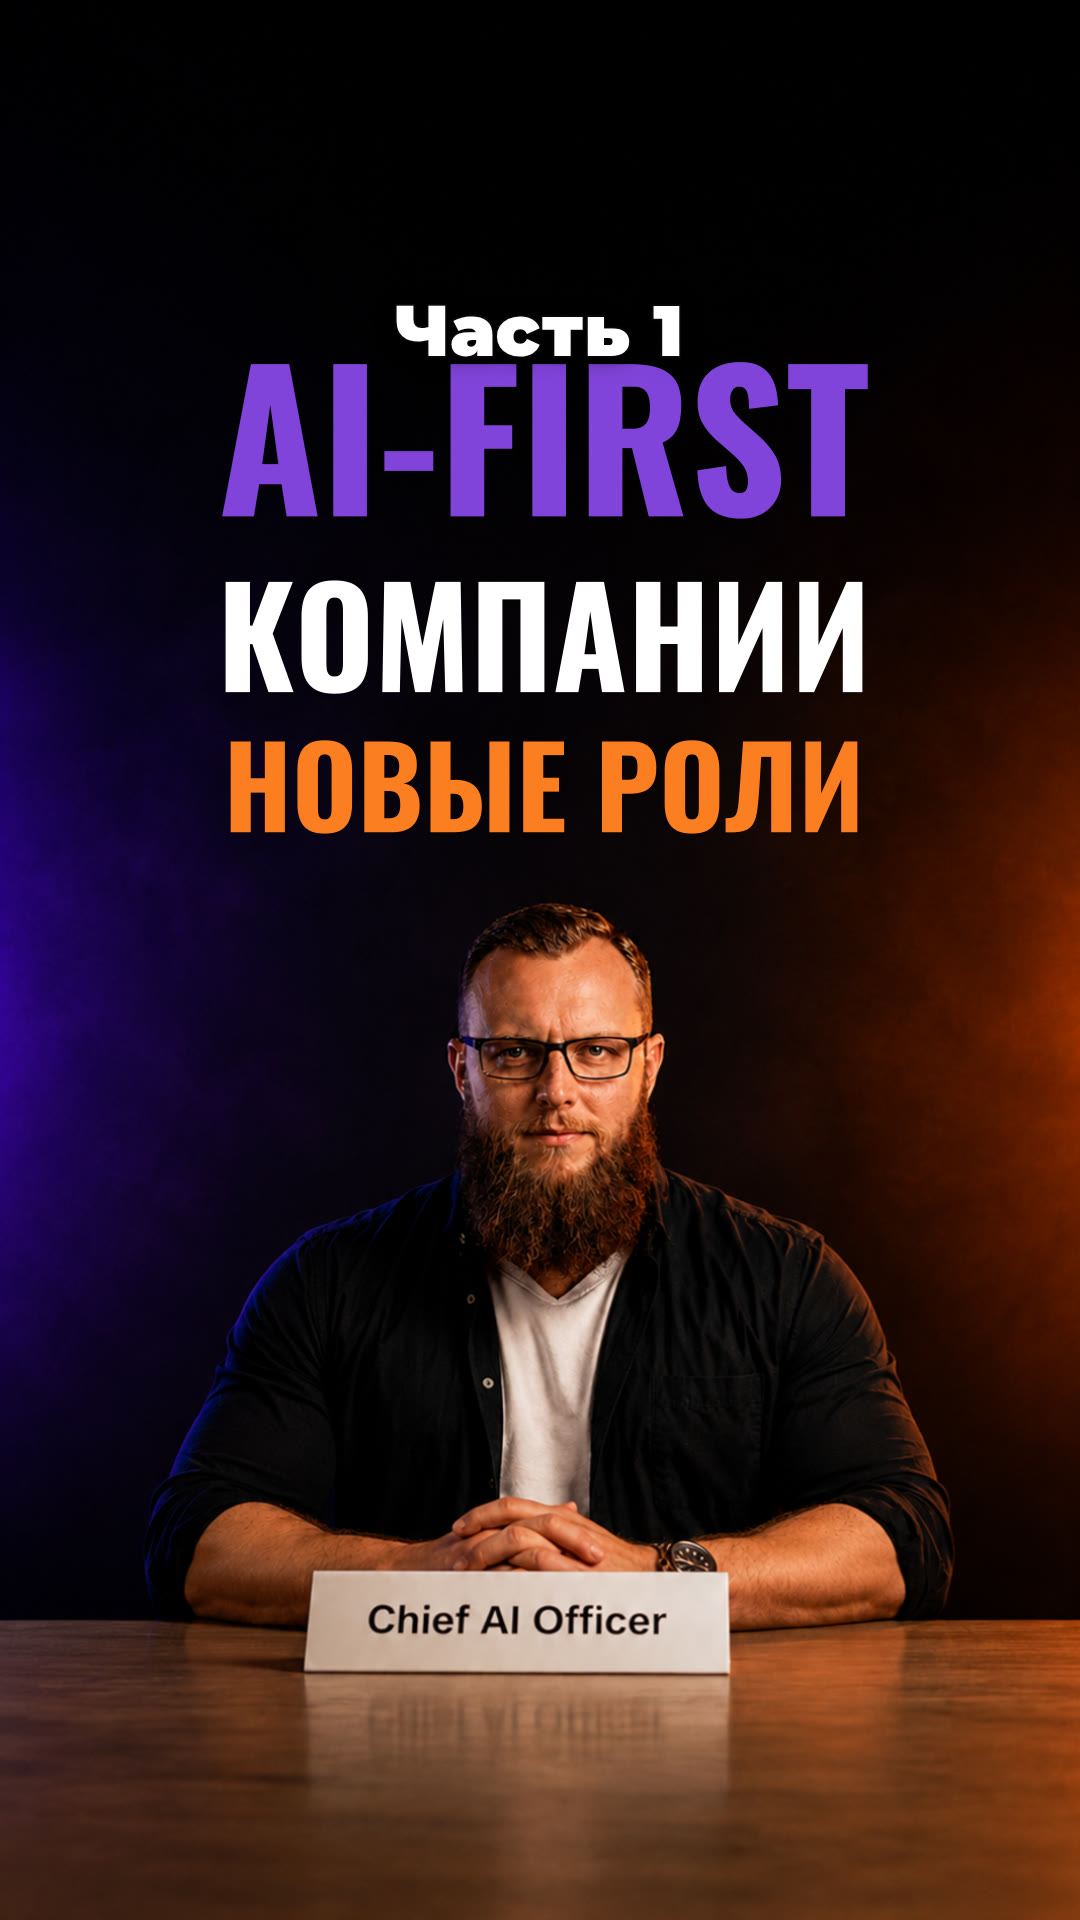
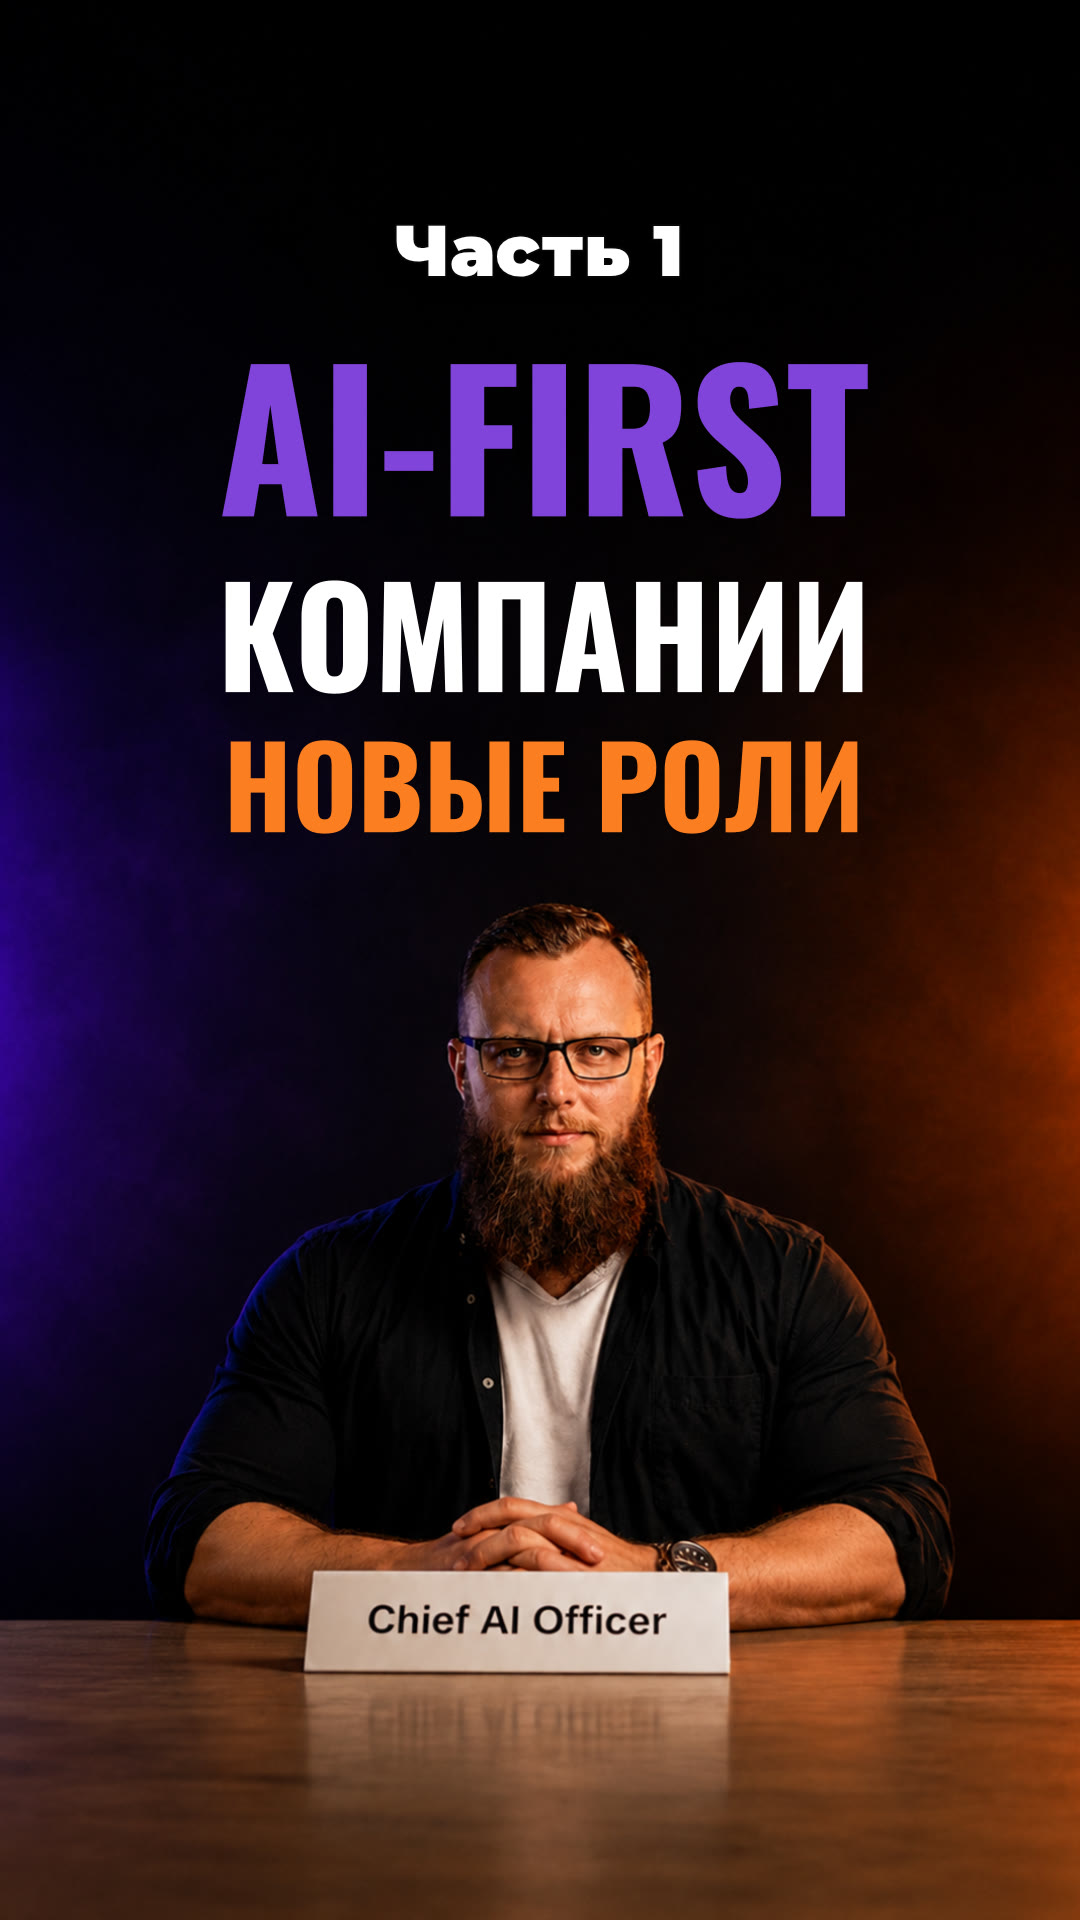
Девятый ролик: подпись «Часть N» на обложках поднята с 330 на 250
Владелец: «чуть выше поставим часть 1 и часть 2». Верхняя полоса обложки
пустая до y500, так что запас есть; подпись по-прежнему стоит над тайтлом
и ни на что не наезжает.

Claude-Session: https://claude.ai/code/session_01JYJ9oxRL64dVKjbnqzxJTN

Changed region(s): [[0.3667, 0.0938, 0.5806, 0.1875], [0.6111, 0.0938, 0.6417, 0.1875]]

diff --git a/automation/1/overlay-roles/README.md b/automation/1/overlay-roles/README.md
@@ -109,7 +109,8 @@ sh нарезать.sh "ваше видео-готовый.mp4" 41.9   # две 
 КОМПАНИИ / НОВЫЕ РОЛИ»), `cover1.jpg` и `cover2.jpg` — по одной на часть, с
 подписью «Часть N». Место подписи выбрано по замеру яркости самой обложки:
 верхняя полоса до y500 пустая, тайтл начинается с 540, лицо с 900 — подпись
-стоит центром на 330 и ни на что не наезжает. Скрипт нарезки видит
+стоит центром на 250 (владелец: «чуть выше поставим часть 1 и часть 2») и ни
+на что не наезжает. Скрипт нарезки видит
 пронумерованные обложки и вторую подпись поверх не рисует.
 
 ## Субтитры

diff --git a/SPEC-SITE.md b/SPEC-SITE.md
@@ -2627,7 +2627,8 @@ drawtext (conda) их бы не нарисовал.
 - **Обложка** — `assets/lecture_1_9.png` («AI-FIRST КОМПАНИИ / НОВЫЕ РОЛИ»),
   обложки частей `cover1.jpg` и `cover2.jpg` с подписью «Часть N». Место
   подписи выбрано по замеру яркости самой обложки: верх до y500 пустой, тайтл
-  начинается с 540, лицо с 900 — подпись стоит центром на 330.
+  начинается с 540, лицо с 900 — подпись стоит центром на 250 (владелец:
+  «чуть выше поставим часть 1 и часть 2»).
 
 **Тесты:** `tests/test_roles_overlay.py` (39 тестов). Ключевые:
 - `[FE]` test_elements_match_the_spoken_words — 49 элементов сверены с речью по словам.
